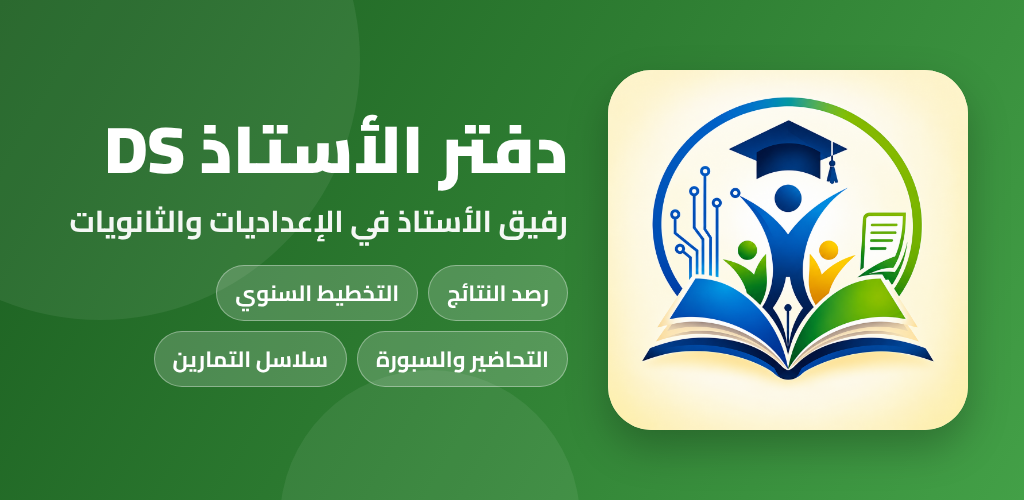
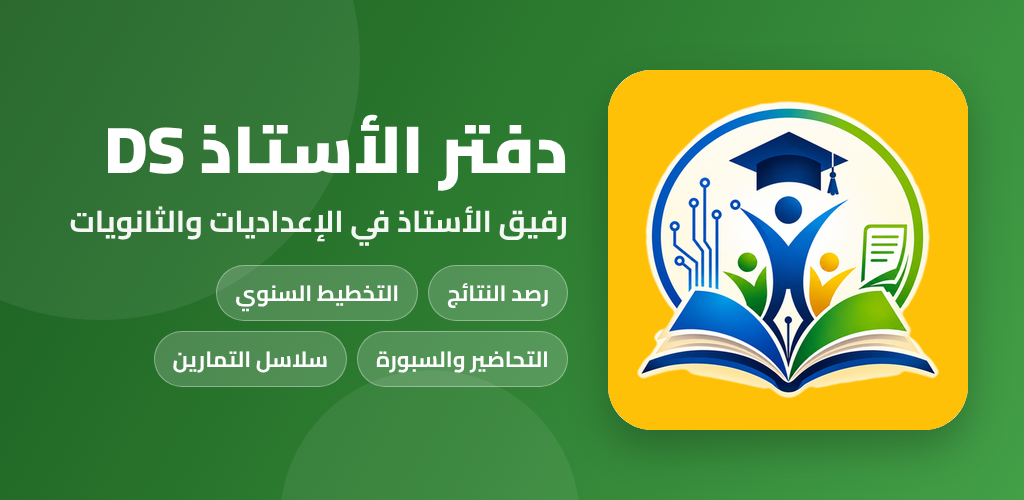
متجر دفتر الأستاذ DS: الأيقونة الصفراء في صورة الواجهة، تصحيح الوصف (لا غياب، 3 مواد في المرحلة، التبادلات والتشريع)، ولقطات حقيقية من الشاشات
Claude-Session: https://claude.ai/code/session_01RHaEyUukSHoYM8miwatJPq

Changed region(s): [[0.5938, 0.12, 0.9688, 0.87]]

diff --git a/app/src/androidTest/java/com/elyedali/daftarustadh/TeacherStoreScreens.kt b/app/src/androidTest/java/com/elyedali/daftarustadh/TeacherStoreScreens.kt
@@ -1,0 +1,104 @@
+package com.elyedali.daftarustadh
+
+import android.graphics.Bitmap
+import androidx.activity.ComponentActivity
+import androidx.compose.foundation.layout.fillMaxSize
+import androidx.compose.material3.MaterialTheme
+import androidx.compose.material3.Surface
+import androidx.compose.runtime.CompositionLocalProvider
+import androidx.compose.ui.Modifier
+import androidx.compose.ui.graphics.asAndroidBitmap
+import androidx.compose.ui.platform.LocalLayoutDirection
+import androidx.compose.ui.test.captureToImage
+import androidx.compose.ui.test.isDialog
+import androidx.compose.ui.test.junit4.createAndroidComposeRule
+import androidx.compose.ui.test.onNodeWithText
+import androidx.compose.ui.test.onRoot
+import androidx.compose.ui.test.performClick
+import androidx.compose.ui.unit.LayoutDirection
+import androidx.test.ext.junit.runners.AndroidJUnit4
+import com.elyedali.daftarustadh.data.*
+import com.elyedali.daftarustadh.ui.*
+import org.junit.Before
+import org.junit.Rule
+import org.junit.Test
+import org.junit.runner.RunWith
+import java.io.File
+import kotlin.random.Random
+
+/** لقطات متجر «دفتر الأستاذ DS» من الشاشات الحقيقية نفسها (نفس الكود ونفس محتوى الدروس)، ببيانات مثال للنتائج. */
+@RunWith(AndroidJUnit4::class)
+class TeacherStoreScreens {
+    @get:Rule val rule = createAndroidComposeRule<ComponentActivity>()
+    private val ctx get() = rule.activity
+    private val out by lazy { File(ctx.filesDir, "store").apply { mkdirs() } }
+    private val year = "2026-2027" // السنة الدراسية الحالية
+    private val level = "1AS"
+    private val subjects by lazy { CurriculumRepository.level(ctx, year, level)!!.subjects }
+    private fun nameOf(code: String) = SubjectNames.display(subjects.first { it.code == code }, false)
+
+    // منع لقطات الشاشة في التخطيط والتحاضير: يُرفع لهذا الاختبار وحده
+    @Before fun allow() { ScreenSecurity.allowForStoreShots = true }
+
+    private fun show(content: @androidx.compose.runtime.Composable () -> Unit) {
+        rule.setContent {
+            CompositionLocalProvider(LocalLayoutDirection provides LayoutDirection.Rtl) {
+                DaftarTheme { Surface(Modifier.fillMaxSize(), color = MaterialTheme.colorScheme.background) { content() } }
+            }
+        }
+        rule.waitForIdle(); Thread.sleep(800); rule.waitForIdle()
+    }
+
+    private fun save(name: String, dialog: Boolean) {
+        rule.waitForIdle(); Thread.sleep(800); rule.waitForIdle()
+        val node = if (dialog) rule.onNode(isDialog()) else rule.onRoot()
+        val bmp = node.captureToImage().asAndroidBitmap()
+        File(out, "$name.png").outputStream().use { bmp.compress(Bitmap.CompressFormat.PNG, 100, it) }
+    }
+
+    @Test fun t1_planning() {
+        show {
+            PlanningTab(levelCode = level, schoolYear = year,
+                mySubjects = subjects.map { it.code to SubjectNames.display(it, false) })
+        }
+        save("1-planning", dialog = false)
+    }
+
+    @Test fun t2_prep() {
+        val set = LessonBank.load(ctx, "IR", level)!!
+        val l = set.lessons.first()
+        show { LessonDialog(l, nameOf("IR"), "الأسبوع 1", set.bookOf(l), set.bookTitleOf(l), "IR") {} }
+        save("2-prep", dialog = true)
+    }
+
+    @Test fun t3_board() {
+        val set = LessonBank.load(ctx, "MATS", level)!!
+        val l = set.lessons.first { it.title.startsWith("Chapitre 9") }
+        show { LessonDialog(l, nameOf("MATS"), "Semaine 24", set.bookOf(l), set.bookTitleOf(l), "MATS") {} }
+        rule.onNodeWithText("🧑🏫", substring = true).performClick()
+        save("3-board", dialog = true)
+    }
+
+    @Test fun t4_practice() {
+        val set = PracticeBank.load(ctx, "MATS", level)!!
+        show { PracticeDialog(set.blocks.first(), set.lang, nameOf("MATS"), set.word) {} }
+        save("4-practice", dialog = true)
+    }
+
+    @Test fun t5_grades() {
+        val names = listOf("آمنة أحمد" to "Amna Ahmed", "إبراهيم محمد" to "Brahim Mohamed", "أم كلثوم سيدي" to "Oum Kalthoum Sidi",
+            "الحسن عبد الله" to "El Hacen Abdallahi", "خديجة محمد الأمين" to "Khadijetou Mohamed Lemine", "زينب أحمد سالم" to "Zeinebou Ahmed Salem",
+            "سيدي محمد" to "Sidi Mohamed", "عائشة يحيى" to "Aichetou Yahya", "محمد المختار" to "Mohamed El Moctar", "مريم الشيخ" to "Mariem Cheikh")
+        val students = names.mapIndexed { i, (ar, fr) ->
+            StudentEntity("s$i", "c1", i + 1, ar, fr, "2201${i}45", "", "", "", 0L, if (i % 2 == 0) "F" else "M") }
+        val rnd = Random(7)
+        val grades = students.flatMap { s -> listOf(GradeSlot.T1, GradeSlot.E1).map { slot ->
+            GradeEntity(s.id, "c1", "MATS", slot, rnd.nextInt(32, 76) / 4.0, 0L) } }
+        val cls = ClassEntity("c1", "main", year, level, 1, 0L)
+        show {
+            GradesScreen(schoolClass = cls, subject = subjects.first { it.code == "MATS" }, students = students, grades = grades,
+                testsMode = TestsMode.AVERAGE, scale = RemarkScale.DEFAULT, onSetGrade = { _, _, _, _ -> }, onTestsMode = {}, onPrintRecord = {}, onBack = {})
+        }
+        save("5-grades", dialog = false)
+    }
+}

diff --git a/app/src/main/java/com/elyedali/daftarustadh/ui/ScreenSecurity.kt b/app/src/main/java/com/elyedali/daftarustadh/ui/ScreenSecurity.kt
@@ -10,7 +10,11 @@ import androidx.compose.ui.window.SecureFlagPolicy
  * يُستثنى حساب مدير الأقسام (صاحب التطبيق) وحده.
  */
 object ScreenSecurity {
-    fun captureAllowed(): Boolean = try { com.elyedali.daftarustadh.auth.DsAuth.isOwner } catch (e: Exception) { false }
+    /** لاختبار لقطات المتجر فقط (لا يغيّره التطبيق أبدًا). */
+    @Volatile var allowForStoreShots = false
+
+    fun captureAllowed(): Boolean = allowForStoreShots ||
+        try { com.elyedali.daftarustadh.auth.DsAuth.isOwner } catch (e: Exception) { false }
 
     /** للنوافذ المنبثقة (لها نافذة خاصة لا ترث منع الشاشة الرئيسية). */
     val dialogPolicy: SecureFlagPolicy get() = if (captureAllowed()) SecureFlagPolicy.Inherit else SecureFlagPolicy.SecureOn

diff --git a/store/teacher/listing.md b/store/teacher/listing.md
@@ -23,21 +23,24 @@
 ✍ رصد النتائج مجانًا
 • رصد الاختبارات والامتحانات بسرعة، مع حساب المعدلات تلقائيًا.
 • إرسال نتائج كل أقسامك إلى الإدارة في ملف واحد عبر واتساب.
-• دفتر الغياب وإرساله إلى الإدارة.
 
 📚 التخطيط السنوي والتحاضير
-• التخطيط السنوي لكل مادة حسب أسابيع السنة الدراسية، مع أسابيع التقويم والامتحانات والعطل.
+• التخطيط السنوي لكل مادة في مستويات الإعدادية حسب أسابيع السنة الدراسية، مع أسابيع التقويم والامتحانات والعطل.
 • تحضير كل درس ومحتوى السبورة وصفحات الكتاب المدرسي.
 • سلاسل تمارين ووضعيات إدماج مع الحلول، ومقترحات امتحانات لكل فصل.
 
 🕒 الجدول الزمني
 • جدولك الزمني الشخصي في كل مؤسسة تعمل فيها.
 
+🤝 وأيضًا
+• تبادلات الأساتذة: انشر طلب تبادلك وتصفّح العروض حسب الولاية والتخصص.
+• التشريع المدرسي مادة بمادة.
+
 ☁ بياناتك في أمان
 • مزامنة تلقائية مع Google Drive في حسابك أنت.
 
 🔑 التفعيل
-رصد النتائج مجاني دائمًا، والفصل الأول من التخطيط والتحاضير مجاني. ويفتح التفعيل السنوي الفصلين الثاني والثالث لثلاث مواد في أربعة مستويات تختارها.
+رصد النتائج مجاني دائمًا، والفصل الأول من التخطيط والتحاضير مجاني. ويفتح التفعيل السنوي الفصلين الثاني والثالث لثلاث مواد تختارها في المرحلة.
 
 📢 تابع قناة التطبيق على واتساب لتصلك التحديثات والشروحات.
 ```
@@ -65,18 +68,24 @@ Notes, planification annuelle et préparations pour les enseignants du secondair
 ✍ Saisie des notes gratuite
 • Saisie rapide des devoirs et compositions, moyennes calculées automatiquement.
 • Envoi des notes de toutes vos classes à l'administration en un seul fichier via WhatsApp.
-• Registre d'absences, envoyé aussi à l'administration.
 
 📚 Planification annuelle et préparations
-• Planification annuelle de chaque matière semaine par semaine, avec évaluations, examens et vacances.
+• Planification annuelle de chaque matière du collège, semaine par semaine, avec évaluations, examens et vacances.
 • Préparation de chaque leçon, contenu du tableau et pages du manuel.
 • Séries d'exercices et situations d'intégration avec corrigés, propositions d'examens pour chaque trimestre.
+
+🕒 Emploi du temps
+• Votre emploi du temps personnel dans chaque établissement où vous travaillez.
+
+🤝 Et aussi
+• Échanges entre enseignants : publiez votre demande et consultez les offres par wilaya et spécialité.
+• La législation scolaire, article par article.
 
 ☁ Vos données en sécurité
 • Synchronisation automatique avec votre propre Google Drive.
 
 🔑 Activation
-La saisie des notes est toujours gratuite, ainsi que le 1er trimestre de la planification. L'activation annuelle ouvre les trimestres 2 et 3 pour 3 matières dans 4 niveaux de votre choix.
+La saisie des notes est toujours gratuite, ainsi que le 1er trimestre de la planification. L'activation annuelle ouvre les trimestres 2 et 3 pour 3 matières de votre choix dans le cycle.
 ```
 
 ## معلومات أخرى
